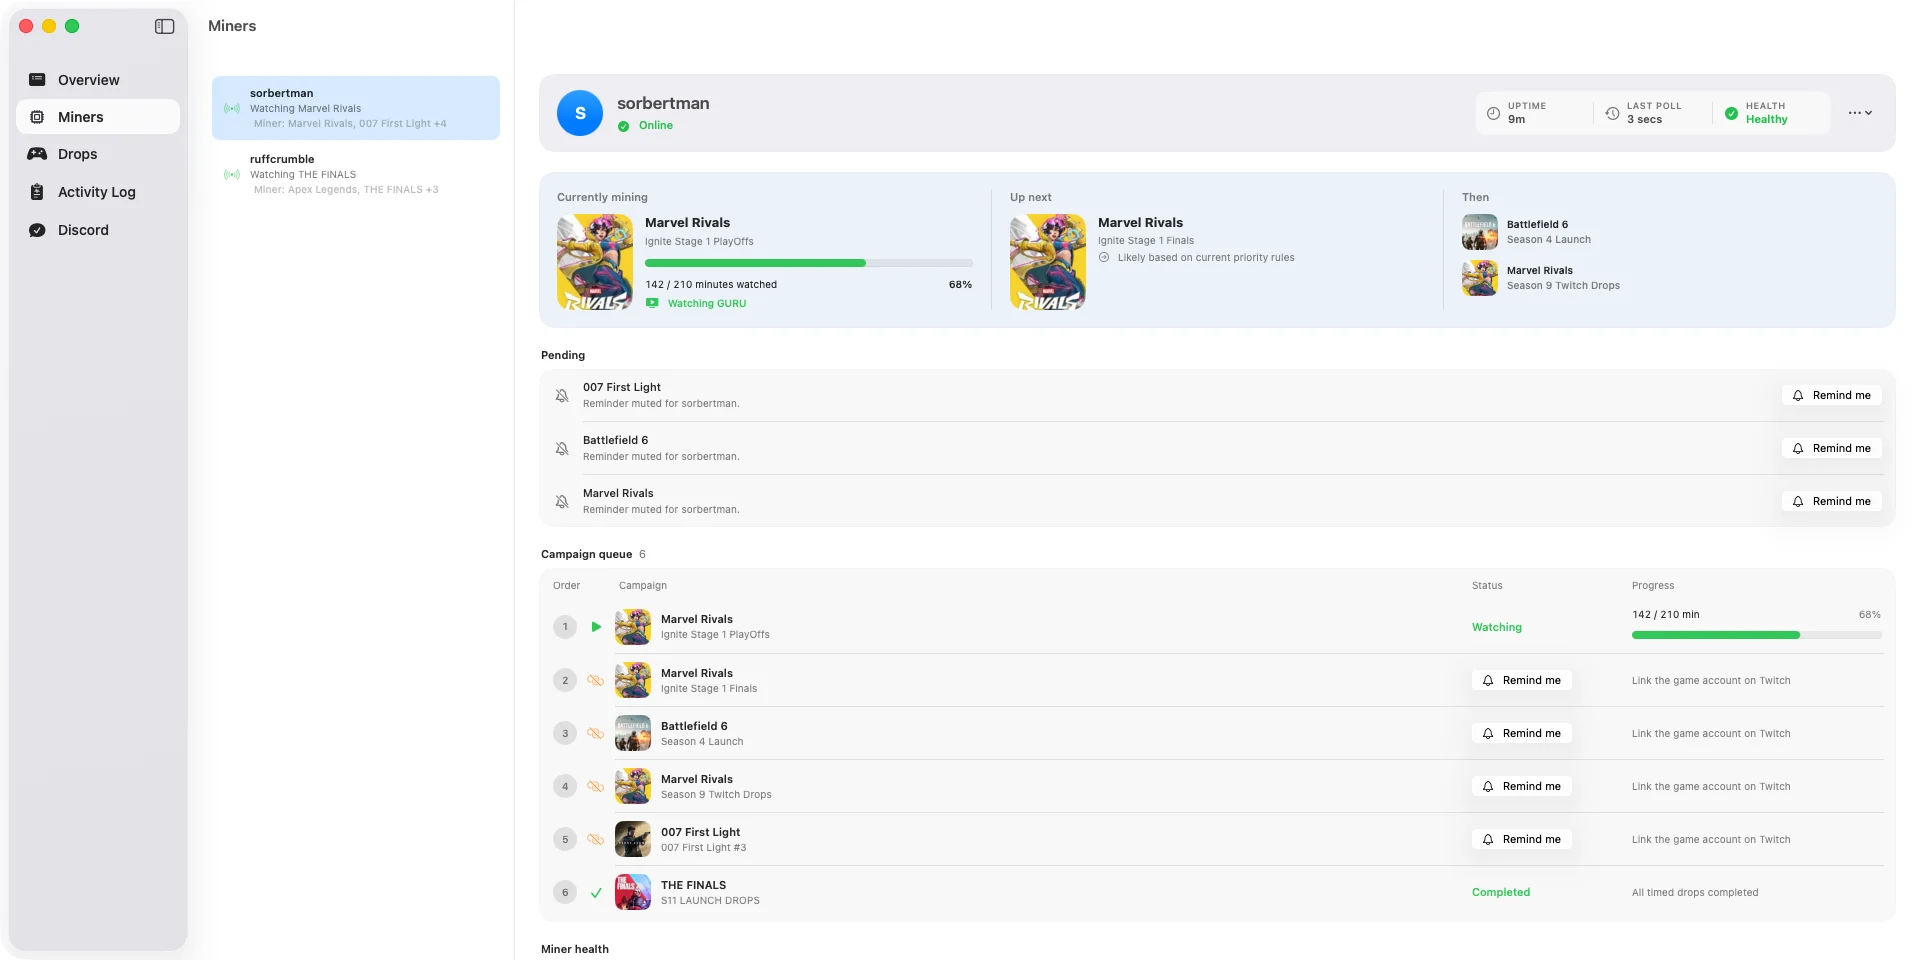
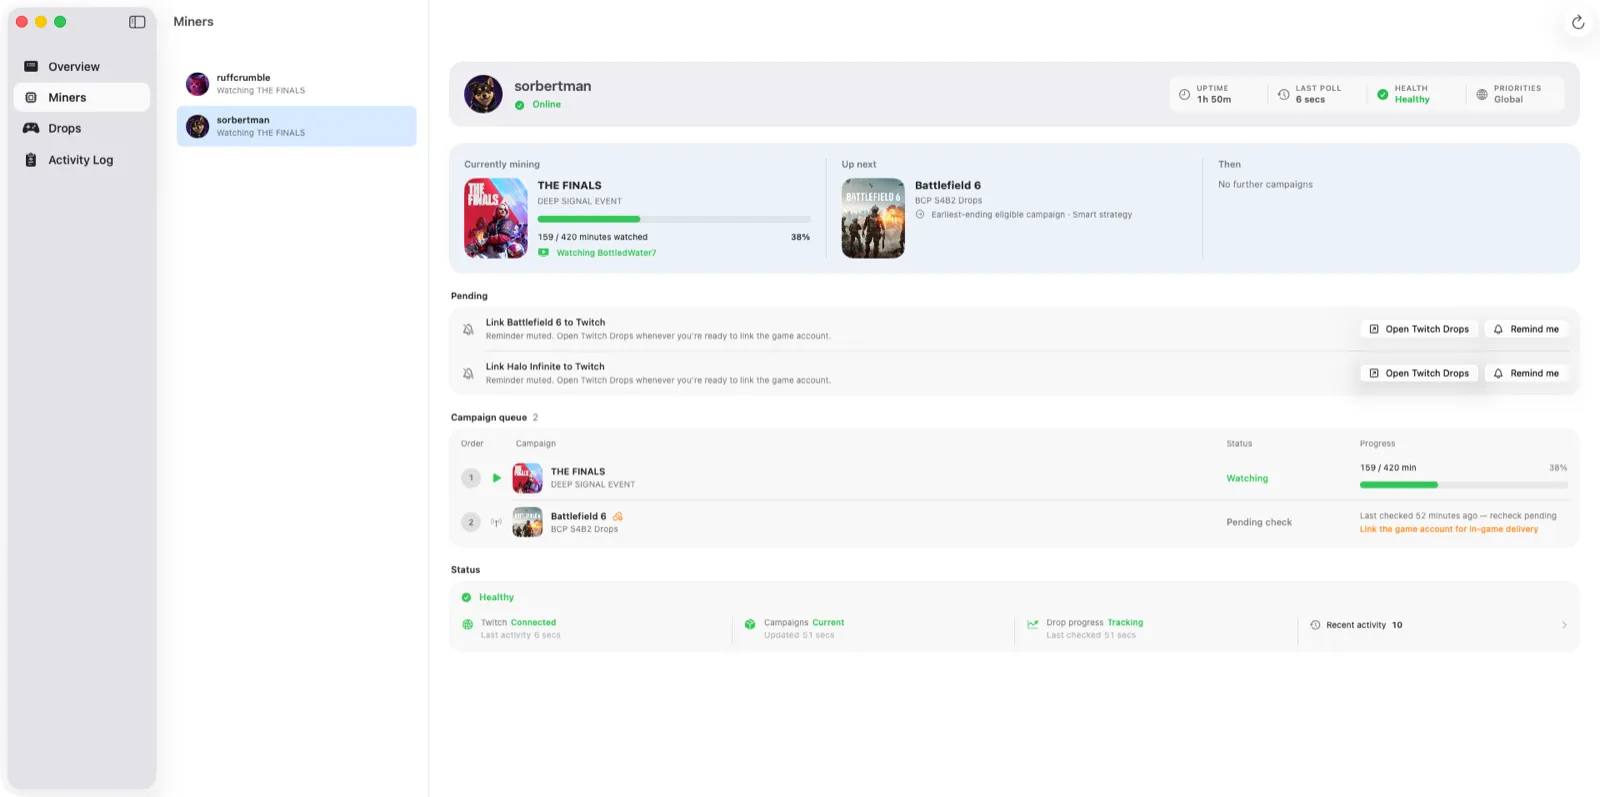
Recapture README and landing screenshots on 1.38
The screenshots were captured on 27 July, before 1.37, 1.37.1, 1.37.2, 1.37.3
and 1.38 shipped. The Miners view in particular no longer resembled the app:
1.38 replaced the separate "Miner health" and "Recovery & diagnostics" cards
with one Status panel, rebuilt Campaign Queue around the resolved scheduling
order, and added the game-account link advisory.

Recaptured Overview, Miners, Drops and Activity Log in both appearances from a
Debug build of this commit, using the window-only pipeline: screencapture
-x -o -l<windowID> for alpha corners and no desktop or menu bar, then
sips -Z 1600 and cwebp -q 80 -alpha_q 100. Each capture was verified against
the window title and by eye — the window title updates on selection while the
detail pane is still redrawing, so a capture taken too early silently records
the previous view.

Also regenerates overview-dark.png, which index.html cites as the schema.org
screenshot for the landing page.

Drops the Discord screenshots and their README section. The Discord tab is no
longer present in the sidebar, so the pair could not be recaptured and the
originals no longer showed a view that exists.

multi-user-*.webp is deliberately untouched. It is the Overview with five
miners — the "group at a glance" shot from d3eef9c — and this instance now runs
two, so recapturing it would quietly replace the point it makes.

diff --git a/README.md b/README.md
@@ -124,17 +124,6 @@ SwiftMiner has been built around those ideas. The goal isn’t to reinvent Twitc
   </picture>
 </p>
 
-### Discord
-
-<p align="center">
-  <picture>
-    <source media="(prefers-color-scheme: dark)" srcset="Website/public/assets/landing/discord-dark.webp">
-    <source media="(prefers-color-scheme: light)" srcset="Website/public/assets/landing/discord-light.webp">
-    <img src="Website/public/assets/landing/discord-light.webp" alt="SwiftMiner Discord linking">
-  </picture>
-</p>
-
-
 ## How It Works
 
 - Each account runs its own miner engine
